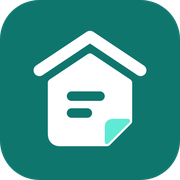
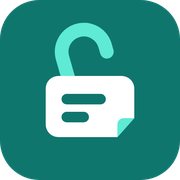
feat(brand): rebrand PDFHaven to Unclasp
"PDF Haven" is already used by an existing PDF tools site (pdfhaven.app).

- Replace PDFHaven logo set with Unclasp (open padlock-page mark,
  Outfit wordmark), regenerate favicon, app icons and share image
- Update header logo, page titles, og:site_name, structured data,
  manifest and README
- Share image no longer claims immediate file deletion

Changed region(s): [[0.1667, 0.1111, 0.8333, 0.4444], [0.25, 0.4444, 0.75, 0.8333], [0.3333, 0.5, 0.6111, 0.6944]]

diff --git a/src/index.html b/src/index.html
@@ -2,7 +2,7 @@
 <html lang="en">
   <head>
     <meta charset="utf-8" />
-    <title>PDFHaven — Remove PDF Passwords Free, No Sign-up</title>
+    <title>Unclasp — Remove PDF Passwords Free, No Sign-up</title>
     <base href="/" />
     <meta
       name="description"
@@ -19,7 +19,7 @@
     <!-- Social -->
     <meta
       property="og:title"
-      content="PDFHaven — Remove PDF Passwords Free, No Sign-up"
+      content="Unclasp — Remove PDF Passwords Free, No Sign-up"
     />
     <meta
       property="og:description"
@@ -30,8 +30,8 @@
     <meta property="og:image" content="https://pdf-fe-kappa.vercel.app/assets/brand/og-image.png" />
     <meta property="og:image:width" content="1200" />
     <meta property="og:image:height" content="630" />
-    <meta property="og:image:alt" content="PDFHaven — Remove PDF passwords, free, no sign-up" />
-    <meta property="og:site_name" content="PDFHaven" />
+    <meta property="og:image:alt" content="Unclasp — Remove PDF passwords, free, no sign-up" />
+    <meta property="og:site_name" content="Unclasp" />
     <meta name="twitter:image" content="https://pdf-fe-kappa.vercel.app/assets/brand/og-image.png" />
     <meta name="twitter:card" content="summary_large_image" />
 
@@ -74,7 +74,7 @@
         {
           "@type": "Organization",
           "@id": "https://pdf-fe-kappa.vercel.app/#organization",
-          "name": "PDFHaven",
+          "name": "Unclasp",
           "url": "https://pdf-fe-kappa.vercel.app/",
           "logo": {
             "@type": "ImageObject",
@@ -89,7 +89,7 @@
         {
           "@type": "WebSite",
           "@id": "https://pdf-fe-kappa.vercel.app/#website",
-          "name": "PDFHaven",
+          "name": "Unclasp",
           "url": "https://pdf-fe-kappa.vercel.app/",
           "publisher": {
             "@id": "https://pdf-fe-kappa.vercel.app/#organization"
@@ -99,7 +99,7 @@
         {
           "@type": "WebApplication",
           "@id": "https://pdf-fe-kappa.vercel.app/pdf-password-remover#app",
-          "name": "PDFHaven PDF Password Remover",
+          "name": "Unclasp PDF Password Remover",
           "url": "https://pdf-fe-kappa.vercel.app/pdf-password-remover",
           "applicationCategory": "UtilitiesApplication",
           "operatingSystem": "Any",

diff --git a/src/app/header/header.component.html b/src/app/header/header.component.html
@@ -2,8 +2,8 @@
   <nav class="navbar navbar-expand-md bg-body bg-opacity-75 backdrop-blur">
     <div class="container-lg py-2">
       <a class="navbar-brand d-flex align-items-center gap-2" routerLink="/">
-        <img class="brand-logo brand-logo-light" src="/assets/brand/pdfhaven-logo.svg" alt="PDFHaven" width="154" height="32" />
-        <img class="brand-logo brand-logo-dark" src="/assets/brand/pdfhaven-logo-dark.svg" alt="PDFHaven" width="154" height="32" />
+        <img class="brand-logo brand-logo-light" src="/assets/brand/unclasp-logo.svg" alt="Unclasp" width="120" height="32" />
+        <img class="brand-logo brand-logo-dark" src="/assets/brand/unclasp-logo-dark.svg" alt="Unclasp" width="120" height="32" />
       </a>
 
       <button

diff --git a/src/styles.scss b/src/styles.scss
@@ -2,7 +2,7 @@
    Global theme & typography
    ========================= */
 :root {
-  /* PDFHaven teal (matches the logo) */
+  /* Unclasp teal (matches the logo) */
   --brand-500: #14b8a6;
   --brand-600: #0d9488;
   --brand-700: #0f766e;
@@ -104,7 +104,7 @@ h3,
   box-shadow: 0 18px 60px rgba(15, 118, 110, 0.25);
 }
 
-/* PDFHaven logo: swap artwork with the Bootstrap theme */
+/* Unclasp logo: swap artwork with the Bootstrap theme */
 .brand-logo {
   display: block;
   height: 32px;

diff --git a/src/app/app.routes.ts b/src/app/app.routes.ts
@@ -48,7 +48,7 @@ export const routes: Routes = [
       import('./feature/landing/landing.component').then(
         (m) => m.LandingComponent
       ),
-    title: 'PDFHaven — Remove PDF Passwords Free, No Sign-up',
+    title: 'Unclasp — Remove PDF Passwords Free, No Sign-up',
     data: {
       description:
         'Unlock a password-protected PDF you have the password for, free and without an account. Plus a PDF unlock API for developers and open-source developer tools.',

diff --git a/src/app/core/seo/seo-title.strategy.ts b/src/app/core/seo/seo-title.strategy.ts
@@ -8,7 +8,7 @@ import {
 } from '@angular/router';
 import { AppConfig } from '../config/app.config';
 
-export const DEFAULT_TITLE = 'PDFHaven — PDF Password Remover';
+export const DEFAULT_TITLE = 'Unclasp — PDF Password Remover';
 export const DEFAULT_DESCRIPTION =
   'Remove the password from a PDF you have the password for — free, no account needed.';
 

diff --git a/src/app/app.routes.spec.ts b/src/app/app.routes.spec.ts
@@ -32,7 +32,7 @@ describe('App Routes', () => {
 
     it('should have home route', () => {
         const homeRoute = find('');
-        expect(homeRoute?.title).toContain('PDFHaven');
+        expect(homeRoute?.title).toContain('Unclasp');
         expect(homeRoute?.loadComponent).toBeDefined();
     });
 

diff --git a/README.md b/README.md
@@ -1,6 +1,6 @@
 <p align="center">
   <a href="https://pdf-fe-kappa.vercel.app/">
-    <img src="src/assets/brand/pdfhaven-logo.svg" alt="PDFHaven" height="64" />
+    <img src="src/assets/brand/unclasp-logo.svg" alt="Unclasp" height="64" />
   </a>
 </p>
 
@@ -17,15 +17,15 @@
 
 ---
 
-# PDFHaven — PDF Password Remover
+# Unclasp — PDF Password Remover
 
-PDFHaven is a free web tool for unlocking password-protected PDFs such as bank
+Unclasp is a free web tool for unlocking password-protected PDFs such as bank
 statements, payslips and invoices. Upload the PDF, enter the password you
 already know, and download a copy that opens without it.
 
 👉 **Try it: [pdf-fe-kappa.vercel.app/pdf-password-remover](https://pdf-fe-kappa.vercel.app/pdf-password-remover)**
 
-![PDFHaven preview](src/assets/brand/og-image.png)
+![Unclasp preview](src/assets/brand/og-image.png)
 
 ## Features
 
@@ -37,7 +37,7 @@ already know, and download a copy that opens without it.
   and Go examples. See the [API docs](https://pdf-fe-kappa.vercel.app/docs).
 - **Responsive** with light and dark themes.
 
-> PDFHaven does **not** crack or recover forgotten passwords. Use it only on
+> Unclasp does **not** crack or recover forgotten passwords. Use it only on
 > documents you own or are authorised to modify.
 
 ## Tech stack
